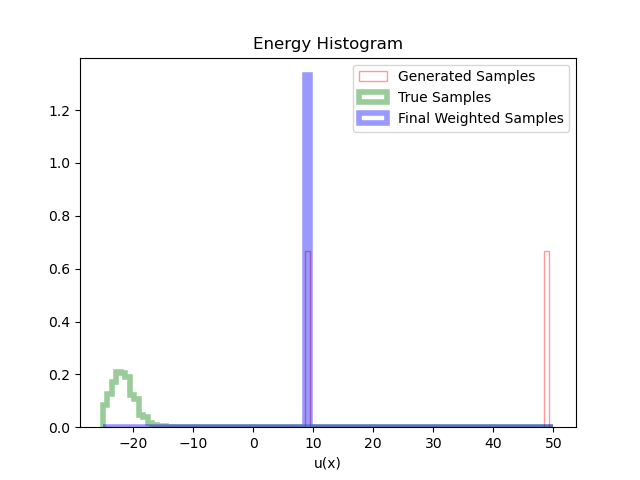
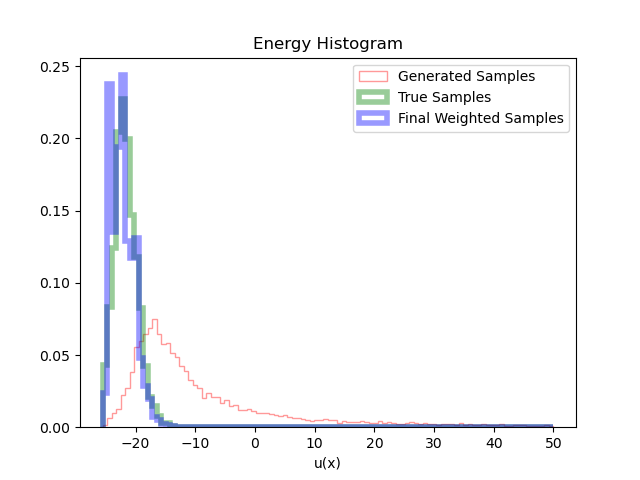
plotted the final ones

diff --git a/eval_and_plot.py b/eval_and_plot.py
@@ -186,8 +186,8 @@ def plot_generating_flow(args, data, flow, prior, target, latent, samples, model
             linewidth=4,
             label='True Samples');
     
-        # plt.hist(energies_bg, bins=100, density=True, range=(min_energy, 50), alpha=0.4, histtype='step', linewidth=4,
-            # color="b", label="Final Weighted Samples", weights=np.exp(-log_w));
+        plt.hist(energies_bg, bins=100, density=True, range=(min_energy, 50), alpha=0.4, histtype='step', linewidth=4,
+            color="b", label="Final Weighted Samples", weights=np.exp(-log_w));
 # 
         plt.xlabel("u(x)", fontsize=10)
         # plt.xticks([...])
@@ -195,7 +195,7 @@ def plot_generating_flow(args, data, flow, prior, target, latent, samples, model
         plt.title('Energy Histogram')
         plt.legend(fontsize=10)
 
-        save_best_path = f"final_generated_hists/model_{model_name}_lamb_{lamb} .png"
+        save_best_path = f"final_generated_hists/model_{model_name}_lamb_{lamb}_with_weights.png"
         os.makedirs(os.path.dirname(save_best_path), exist_ok=True)
         plt.savefig(save_best_path)
 
